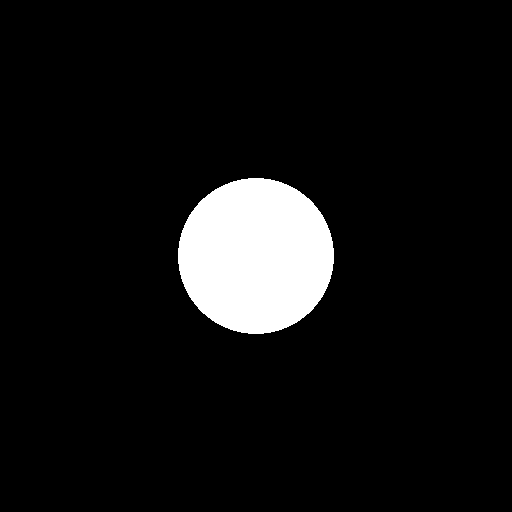
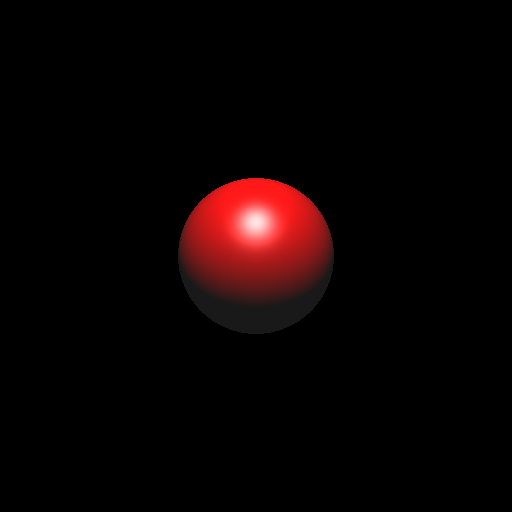
3

Changed region(s): [[0.3438, 0.3438, 0.6562, 0.6562]]

diff --git a/l04/src/Light.h b/l04/src/Light.h
@@ -19,23 +19,22 @@
  * If directional, "position" is the direction the light.
  * By Loïc Nassif
  */
-class Light
-{
+class Light{
 public:
-	Light() :
-		name(""),
-		colour(1.0f, 1.0f, 1.0f),
-		position(0.0f, 0.0f, 0.0f),
-		power(1.0f),
-		type("point")
-		{}
-	virtual ~Light() {}
+  Light():name(""),colour(1.0f, 1.0f, 1.0f),position(0.0f, 0.0f, 0.0f),power(1.0f),type("point"){}
+  virtual~Light(){}
 
-	std::string name; // Name of the light
-	glm::vec3 colour; // Light colour. Default white
-	glm::vec3 position; // Position of light. Default world origin
-	float power; // Light intensity
-	std::string type; // Type of light. Default point light
+  glm::vec3 dir(const glm::vec3 point){
+	if(type=="point")
+	  return glm::normalize(position-point);
+	return position;
+  }
+  
+  std::string name; // Name of the light
+  glm::vec3 colour; // Light colour. Default white
+  glm::vec3 position; // Position of light. Default world origin
+  float power; // Light intensity
+  std::string type; // Type of light. Default point light
 };
 
 #endif

diff --git a/l04/src/Material.h b/l04/src/Material.h
@@ -16,30 +16,24 @@
  * Material class to specifies surface properties such as diffuse and specular colour. 
  * By Loïc Nassif
  */
-class Material
-{
+class Material{
 public:
-	Material() : name(""),
-				 diffuse(glm::vec3(1.0f, 1.0f, 1.0f)),
-				 specular(glm::vec3(0.0f, 0.0f, 0.0f)),
-				 hardness(0.f)
-	{
+	Material():name(""),diffuse(glm::vec3(1.0f, 1.0f, 1.0f)),specular(glm::vec3(0.0f, 0.0f, 0.0f)),hardness(0.f){
 	}
-	virtual ~Material() {}
+	virtual~Material(){}
 
-	void reset()
-	{
-		name = "";
-		diffuse = glm::vec3(1.0f, 1.0f, 1.0f);
-		specular = glm::vec3(0.0f, 0.0f, 0.0f);
-		hardness = 0.f;
+	void reset(){
+		name="";
+		diffuse=glm::vec3(1.0f, 1.0f, 1.0f);
+		specular=glm::vec3(0.0f, 0.0f, 0.0f);
+		hardness=0.f;
 	}
 
 	std::string name;	// Material name
 	glm::vec3 diffuse;	// Diffuse colour. Default white
 	glm::vec3 specular; // Specular colour. Default black
 	float hardness;		// Specular hardness
-	int ID = -1; // ID for material to pair with shapes 
+	int ID=-1; // ID for material to pair with shapes 
 };
 
 #endif

diff --git a/l04/src/Scene.cpp b/l04/src/Scene.cpp
@@ -71,13 +71,21 @@ void Scene::render(){
 	  ray->direction=(left+(right-left)*(((float)i+0.5f)/width))*u+(bottom+(top-bottom)*(((float)j+0.5f)/height))*v-d*w;
 	  //std::cout<<"ray dir: "<<ray->direction.x<<", "<<ray->direction.y<<", "<<ray->direction.z<<"\n";
 	  
-	  // TODO: 2. test for intersection with scene surfaces
 	  for(auto s:shapes){
 		s->intersect(ray,intersection);
 	  }
 
-	  if(intersection->t<FLT_MAX)
-		colour=glm::vec3(1.0f,1.0f,1.0f);
+	  if(intersection->t<FLT_MAX){
+		colour=ambient;
+		auto m=intersection->material;
+		glm::vec3 v=glm::normalize(ray->direction)*-1.f;
+		for(auto l:lights){
+		  glm::vec3 ld=l->dir(intersection->p);
+		  colour+=l->colour*
+			(m->diffuse*glm::max(0.f,glm::dot(intersection->n,ld))
+			 +m->specular*glm::pow(glm::max(0.f,glm::dot(intersection->n,glm::normalize(ld+v))),m->hardness));
+		}
+	  }
 			
 	  // TODO: 3. compute the shaded result for the intersection point
 	  

diff --git a/l04/src/Sphere.cpp b/l04/src/Sphere.cpp
@@ -19,7 +19,6 @@ Sphere::~Sphere(){
 }
 
 void Sphere::intersect(const std::shared_ptr<Ray>ray,std::shared_ptr<IntersectionData>intersection){
-  // TODO: Objective 2: intersection of ray with sphere
   glm::vec3 d=ray->direction,e=ray->origin;
 
   float a=glm::dot(d,d),b=glm::dot(d,e-center),c=glm::dot(e-center,e-center)-radius*radius;
@@ -34,12 +33,16 @@ void Sphere::intersect(const std::shared_ptr<Ray>ray,std::shared_ptr<Intersectio
   if(t0>=0){
 	if(t0<intersection->t){
 	  intersection->t=t0;
-	  // TODO 3 set normal, intersection point
+	  ray->computePoint(t0,intersection->p);
+	  intersection->n=(intersection->p-center)/radius;
+	  intersection->material=materials[0];
 	}
   }else{
 	if(t1>=0&&t1<intersection->t){
 	  intersection->t=t1;
-	  // TODO 3 same
+	  ray->computePoint(t1,intersection->p);
+	  intersection->n=(intersection->p-center)/radius;
+	  intersection->material=materials[0];
 	}
   }
 }

diff --git a/l04/src/Shape.h b/l04/src/Shape.h
@@ -28,14 +28,14 @@ class Material;
 */
 class Shape{
 public:
-	Shape(){}
-	virtual~Shape(){}
+  Shape(){}
+  virtual~Shape(){}
 
-	virtual void intersect(const std::shared_ptr<Ray>ray,std::shared_ptr<IntersectionData>intersection){}
+  virtual void intersect(const std::shared_ptr<Ray>ray,std::shared_ptr<IntersectionData>intersection){}
 
-	std::vector<std::shared_ptr<Material>>materials;
-	std::string name;
-	std::string type;
+  std::vector<std::shared_ptr<Material>>materials;
+  std::string name;
+  std::string type;
 };
 
 #endif

diff --git a/l04/src/IntersectionData.h b/l04/src/IntersectionData.h
@@ -26,14 +26,11 @@ public:
   virtual~IntersectionData() {}
 
   void reset(){
-	n=glm::vec3(0.0f,0.0f,0.0f);
-	p=glm::vec3(0.0f,0.0f,0.0f);
 	t=FLT_MAX;
-	material.reset();
   }
 
-  glm::vec3 n=glm::vec3(0.0f,0.0f,0.0f); // Intersection normal
-  glm::vec3 p=glm::vec3(0.0f,0.0f,0.0f); // Intersection point
+  glm::vec3 n; // Intersection normal
+  glm::vec3 p; // Intersection point
   float t=FLT_MAX; // Ray parameter giving the position of intersection
 
   std::shared_ptr<Material>material;

diff --git a/l04/src/Ray.cpp b/l04/src/Ray.cpp
@@ -2,17 +2,12 @@
 
 #include "Ray.h"
 
-Ray::Ray(glm::vec3 _origin, glm::vec3 _direction) :
-    origin(_origin),
-    direction(_direction)
-{
+Ray::Ray(glm::vec3 _origin, glm::vec3 _direction):origin(_origin),direction(_direction){
 }
 
-Ray::~Ray()
-{
+Ray::~Ray(){
 }
 
-void Ray::computePoint(float t, glm::vec3& p) 
-{
-    p = origin + t * direction;
+void Ray::computePoint(float t,glm::vec3&p){
+  p=origin+t*direction;
 }

diff --git a/l04/src/Sphere.h b/l04/src/Sphere.h
@@ -11,7 +11,7 @@
 A sphere class. It is specified with a radius and a center position.
 - By Loïc Nassif
  */
-class Sphere : public Shape{
+class Sphere:public Shape{
 public:
 	Sphere();
 	Sphere(float _radius,glm::vec3 _center);
